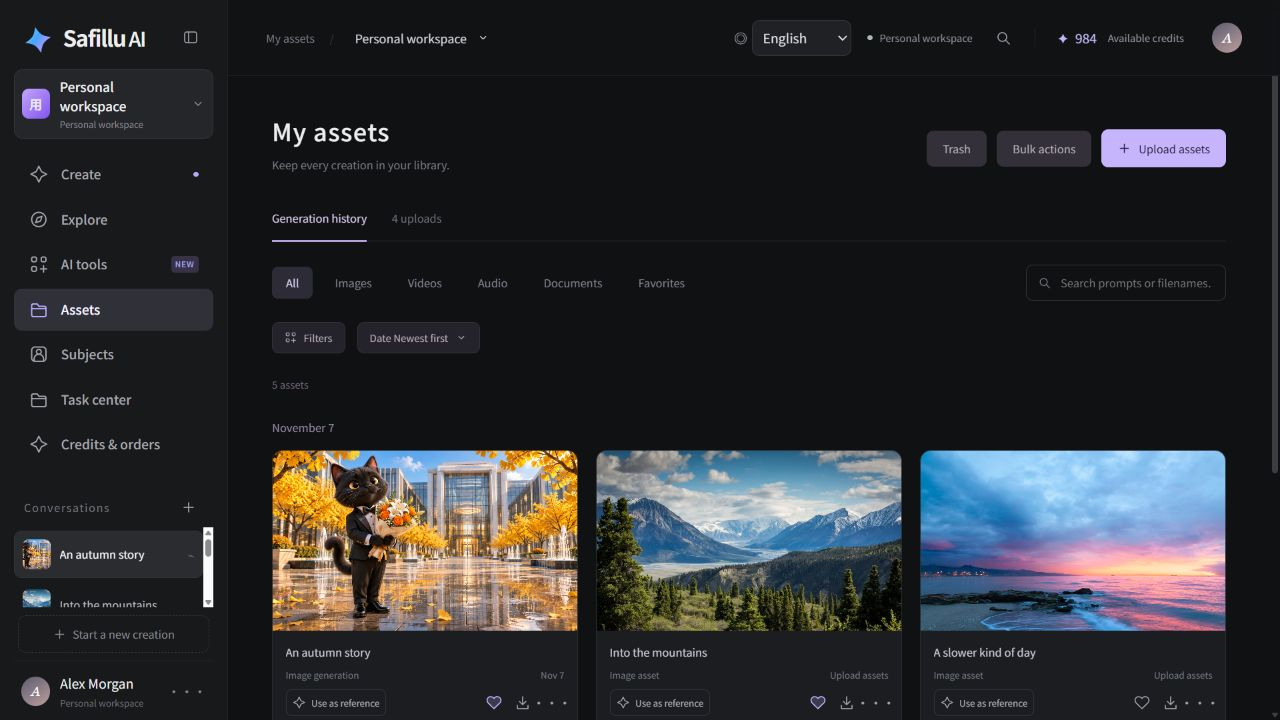
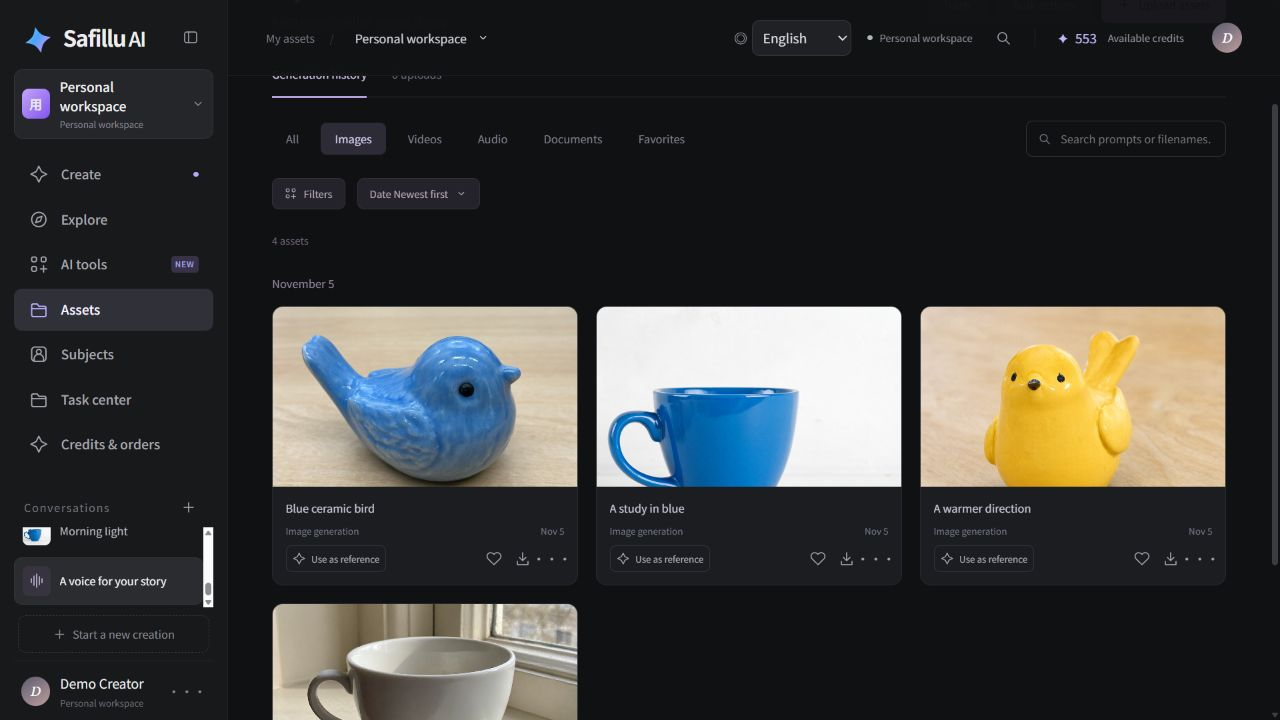
docs: showcase real generation results in ten English screenshots

diff --git a/README.es.md b/README.es.md
@@ -15,7 +15,7 @@ Código abierto. Autoalojado. Un punto de partida para tu propia plataforma de I
 
 [Nuestra visión](#nuestra-visión) · [Funciones](#lista-de-funciones) · [Hoja de ruta](#hoja-de-ruta-funciones-previstas) · [Empezar](#inicio-rápido) · [Credenciales](docs/credentials.es.md) · [Informe de pruebas](docs/test-report.es.md) · [Guía de despliegue](docker/README.txt) · [Proponer una idea](https://github.com/unrulpkk/safillu-aigc/issues)
 
-![Espacio de creación de Safillu en inglés con instrucciones, ajustes del modelo y regeneración](docs/images/safillu-create-en.jpg)
+![Edición de imágenes en Safillu en inglés con un pájaro azul de referencia y el pájaro amarillo generado](docs/images/safillu-create-en.jpg)
 
 </div>
 
@@ -25,17 +25,32 @@ Para quienes desarrollan un **SaaS de creación con IA**, Safillu también inclu
 
 ## Así es Safillu
 
-Las capturas muestran la interfaz real en inglés con contenido de demostración seleccionado. Los nombres, saldos y estados de las tareas son ejemplos; los resultados de generación reales y su verificación se documentan en el [informe de pruebas](docs/test-report.es.md).
+Estas diez capturas utilizan imágenes, vídeos, voz y música guardados de pruebas anteriores con solicitudes reales a los modelos, en la interfaz real en inglés. Los títulos, las traducciones de las instrucciones, la agrupación de proyectos y la galería Explorar se han preparado para la presentación; el nombre del perfil es ficticio. Los archivos generados no se han modificado y el historial conserva los estados y saldos registrados. Consulta el [informe de pruebas](docs/test-report.es.md) para conocer la verificación y las limitaciones de los proveedores.
+
+| De texto a imagen | Previsualización y reutilización |
+| --- | --- |
+| [![Pájaro de cerámica azul generado con Qwen Image 2.1 en la interfaz en inglés](docs/images/safillu-images-en.jpg)](docs/images/safillu-images-en.jpg) | [![Taza generada con Z-Image Base con instrucciones y detalles del modelo en inglés](docs/images/safillu-preview-en.jpg)](docs/images/safillu-preview-en.jpg) |
+| **Qwen Image 2.1**: un resultado guardado de fotografía de producto. | **Z-Image Base**: examina el resultado, copia las instrucciones o reutilízalo como referencia. |
+
+| Vídeo: un cielo en movimiento | Vídeo: un momento junto al mar |
+| --- | --- |
+| [![Vídeo de nubes guardado de MiniMax H3 con reproducción y ajustes](docs/images/safillu-video-clouds-en.jpg)](docs/images/safillu-video-clouds-en.jpg) | [![Vídeo de olas guardado de MiniMax H3 SelfLift con reproducción y ajustes](docs/images/safillu-video-sea-en.jpg)](docs/images/safillu-video-sea-en.jpg) |
+| **MiniMax H3**: cinco segundos de nubes. | **MiniMax H3 SelfLift**: cuatro segundos en la costa. |
+
+| Generación de voz | Generación de música |
+| --- | --- |
+| [![Voz guardada de Qwen3 Voice Design y controles de descripción en inglés](docs/images/safillu-voice-en.jpg)](docs/images/safillu-voice-en.jpg) | [![Audio de piano guardado de YuE2 en el espacio musical en inglés](docs/images/safillu-music-en.jpg)](docs/images/safillu-music-en.jpg) |
+| **Qwen3 Voice Design**: reproducción de voz y descripción del timbre. | **YuE2**: una pieza instrumental guardada. |
 
 | Conserva tus creaciones | Descubre tu próxima idea |
 | --- | --- |
 | [![Biblioteca en inglés con búsqueda, filtros, favoritos y referencias reutilizables](docs/images/safillu-assets-en.jpg)](docs/images/safillu-assets-en.jpg) | [![Galería Explorar en inglés con ideas creativas reutilizables](docs/images/safillu-explore-en.jpg)](docs/images/safillu-explore-en.jpg) |
-| **Biblioteca de recursos**: sube, organiza, guarda en favoritos y reutiliza tus materiales. | **Explorar**: publica ideas desde el panel de administración y reutiliza sus instrucciones. |
+| **Biblioteca de recursos**: pájaros y tazas generados, listos para previsualizar y reutilizar. | **Explorar**: una galería preparada con los mismos resultados generados. |
 
 <details>
-<summary><strong>Centro de tareas: progreso de generación, historial y créditos reservados</strong></summary>
+<summary><strong>Centro de tareas: solicitudes reales completadas, historial y contabilidad de créditos</strong></summary>
 
-![Centro de tareas en inglés con ejemplos de generación en curso, en cola y completada, y créditos reservados](docs/images/safillu-tasks-en.jpg)
+![Centro de tareas en inglés con solicitudes reales completadas y los saldos de créditos disponibles y consumidos](docs/images/safillu-tasks-en.jpg)
 
 </details>
 

diff --git a/README.md b/README.md
@@ -15,7 +15,7 @@ Open source. Self-hosted. A starting point for your own AI platform.
 
 [Our vision](#our-vision) · [Features](#feature-list) · [Roadmap](#roadmap-planned) · [Get started](#quick-start) · [Credentials](docs/credentials.md) · [Test report](docs/test-report.md) · [Deployment guide](docker/README.txt) · [Share an idea](https://github.com/unrulpkk/safillu-aigc/issues)
 
-![Safillu English creation workspace with a prompt, model settings, and regeneration controls](docs/images/safillu-create-en.jpg)
+![Safillu English image-editing workspace with a blue bird reference and the generated yellow bird](docs/images/safillu-create-en.jpg)
 
 </div>
 
@@ -25,17 +25,32 @@ Building an **AI creative SaaS**? Safillu also provides the foundations around g
 
 ## A look inside Safillu
 
-Screenshots show the actual English interface with curated demo content. Names, credit balances, and task states are illustrative; live generation results and verification are documented in the [test report](docs/test-report.md).
+These ten screenshots use saved image, video, speech, and music outputs from earlier live generation tests in the actual English interface. Titles, prompt translations, project groupings, and the Explore gallery are curated for presentation; the profile name is a placeholder. Generated media are unchanged, and the task history retains its recorded statuses and credit balances. See the [test report](docs/test-report.md) for verification and provider limitations.
+
+| Text-to-image | Preview and reuse |
+| --- | --- |
+| [![Qwen Image 2.1 generated blue ceramic bird in the English workspace](docs/images/safillu-images-en.jpg)](docs/images/safillu-images-en.jpg) | [![Z-Image Base coffee cup result with its English prompt and model details](docs/images/safillu-preview-en.jpg)](docs/images/safillu-preview-en.jpg) |
+| **Qwen Image 2.1** — a saved product-photography result. | **Z-Image Base** — inspect a result, copy the prompt, or reuse it as a reference. |
+
+| Video: a sky in motion | Video: a moment by the sea |
+| --- | --- |
+| [![Saved MiniMax H3 cloud video with playback and generation settings](docs/images/safillu-video-clouds-en.jpg)](docs/images/safillu-video-clouds-en.jpg) | [![Saved MiniMax H3 SelfLift wave video with playback and generation settings](docs/images/safillu-video-sea-en.jpg)](docs/images/safillu-video-sea-en.jpg) |
+| **MiniMax H3** — a five-second cloud scene. | **MiniMax H3 SelfLift** — a four-second coastal scene. |
+
+| Speech generation | Music generation |
+| --- | --- |
+| [![Qwen3 Voice Design saved speech and English voice description controls](docs/images/safillu-voice-en.jpg)](docs/images/safillu-voice-en.jpg) | [![YuE2 saved piano audio in the English music workspace](docs/images/safillu-music-en.jpg)](docs/images/safillu-music-en.jpg) |
+| **Qwen3 Voice Design** — speech playback and voice description. | **YuE2** — a saved instrumental soundtrack. |
 
 | Keep your creations | Discover your next idea |
 | --- | --- |
 | [![English asset library with search, filters, favorites, and reusable references](docs/images/safillu-assets-en.jpg)](docs/images/safillu-assets-en.jpg) | [![English exploration gallery with reusable creative ideas](docs/images/safillu-explore-en.jpg)](docs/images/safillu-explore-en.jpg) |
-| **Asset library** — upload, organize, favorite, and reuse your materials. | **Explore** — publish curated ideas from the administration panel and reuse their prompts. |
+| **Asset library** — actual generated birds and cups, ready to preview and reuse. | **Explore** — a showcase gallery curated from the same generated results. |
 
 <details>
-<summary><strong>Task center: generation progress, history, and reserved credits</strong></summary>
+<summary><strong>Task center: actual completed requests, history, and credit accounting</strong></summary>
 
-![English task center showing generating, queued, and completed demo tasks with credit reservations](docs/images/safillu-tasks-en.jpg)
+![English task center showing recorded completed model requests and the available and consumed credit balances](docs/images/safillu-tasks-en.jpg)
 
 </details>
 

diff --git a/README.zh-CN.md b/README.zh-CN.md
@@ -15,7 +15,7 @@
 
 [我们的愿景](#我们的愿景) · [功能清单](#功能清单) · [Roadmap](#roadmap规划中) · [开始部署](#快速开始) · [密钥申请与配置](docs/credentials.zh-CN.md) · [测试报告](docs/test-report.zh-CN.md) · [部署说明](docker/README.txt) · [提出想法](https://github.com/unrulpkk/safillu-aigc/issues)
 
-![Safillu 英文创作工作台：提示词、模型参数与再次生成入口](docs/images/safillu-create-en.jpg)
+![Safillu 英文图片编辑工作台：蓝色小鸟参考图与生成的黄色小鸟](docs/images/safillu-create-en.jpg)
 
 </div>
 
@@ -25,17 +25,32 @@
 
 ## 看看 Safillu 的界面
 
-以下截图使用实际英文界面与整理后的演示内容。姓名、积分余额和任务状态均为展示示例；真实生成结果与验证情况请查看[测试报告](docs/test-report.zh-CN.md)。
+以下 10 张截图使用实际英文界面，展示之前真实请求模型生成并保存的图片、视频、语音和音乐。标题、提示词译文、项目分组及探索展示内容经过整理，个人名称使用占位名称；生成素材未修改，任务状态和积分余额保留验收记录中的真实数据。验证情况与模型服务限制请查看[测试报告](docs/test-report.zh-CN.md)。
+
+| 文生图 | 作品预览与复用 |
+| --- | --- |
+| [![Qwen Image 2.1 真实生成的蓝色陶瓷小鸟与英文创作界面](docs/images/safillu-images-en.jpg)](docs/images/safillu-images-en.jpg) | [![Z-Image Base 咖啡杯作品预览、英文提示词与模型信息](docs/images/safillu-preview-en.jpg)](docs/images/safillu-preview-en.jpg) |
+| **Qwen Image 2.1**：已保存的产品摄影风格作品。 | **Z-Image Base**：查看作品、复制提示词、复用参考素材。 |
+
+| 视频：流动的云景 | 视频：海边的片刻 |
+| --- | --- |
+| [![MiniMax H3 真实云景视频、播放器与生成参数](docs/images/safillu-video-clouds-en.jpg)](docs/images/safillu-video-clouds-en.jpg) | [![MiniMax H3 SelfLift 真实海浪视频、播放器与生成参数](docs/images/safillu-video-sea-en.jpg)](docs/images/safillu-video-sea-en.jpg) |
+| **MiniMax H3**：5 秒云景视频。 | **MiniMax H3 SelfLift**：4 秒海浪视频。 |
+
+| 语音生成 | 音乐生成 |
+| --- | --- |
+| [![Qwen3 语音设计的已生成语音与英文声音描述界面](docs/images/safillu-voice-en.jpg)](docs/images/safillu-voice-en.jpg) | [![YuE2 已生成的钢琴音频与英文音乐工作台](docs/images/safillu-music-en.jpg)](docs/images/safillu-music-en.jpg) |
+| **Qwen3 Voice Design**：语音播放与声音描述。 | **YuE2**：已保存的纯音乐作品。 |
 
 | 留下每一次创作 | 发现下一个灵感 |
 | --- | --- |
 | [![英文资产库：搜索、筛选、收藏与素材复用](docs/images/safillu-assets-en.jpg)](docs/images/safillu-assets-en.jpg) | [![英文探索页：灵感作品与提示词复用](docs/images/safillu-explore-en.jpg)](docs/images/safillu-explore-en.jpg) |
-| **资产库**：上传、整理、收藏素材，并用于后续创作。 | **探索**：由管理后台发布精选内容，用户可复用提示词。 |
+| **资产库**：真实生成的小鸟、杯子等作品，可预览并复用。 | **探索**：用同一批真实作品整理的灵感展示。 |
 
 <details>
-<summary><strong>任务中心：生成进度、历史记录与积分预占</strong></summary>
+<summary><strong>任务中心：真实已完成请求、历史记录与积分账务</strong></summary>
 
-![英文任务中心：生成中、排队中、已完成的演示任务与积分预占](docs/images/safillu-tasks-en.jpg)
+![英文任务中心：真实已完成的模型请求记录、可用积分与已消耗积分](docs/images/safillu-tasks-en.jpg)
 
 </details>
 
